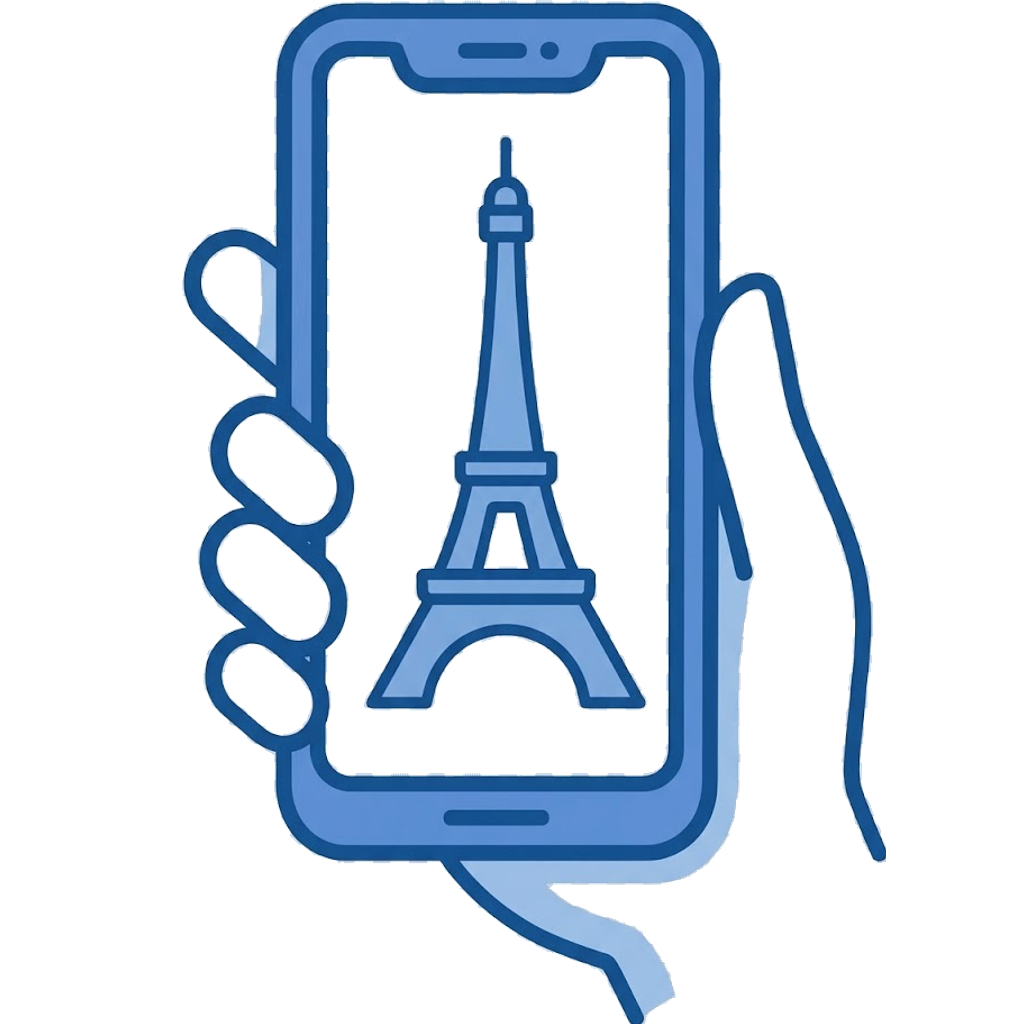
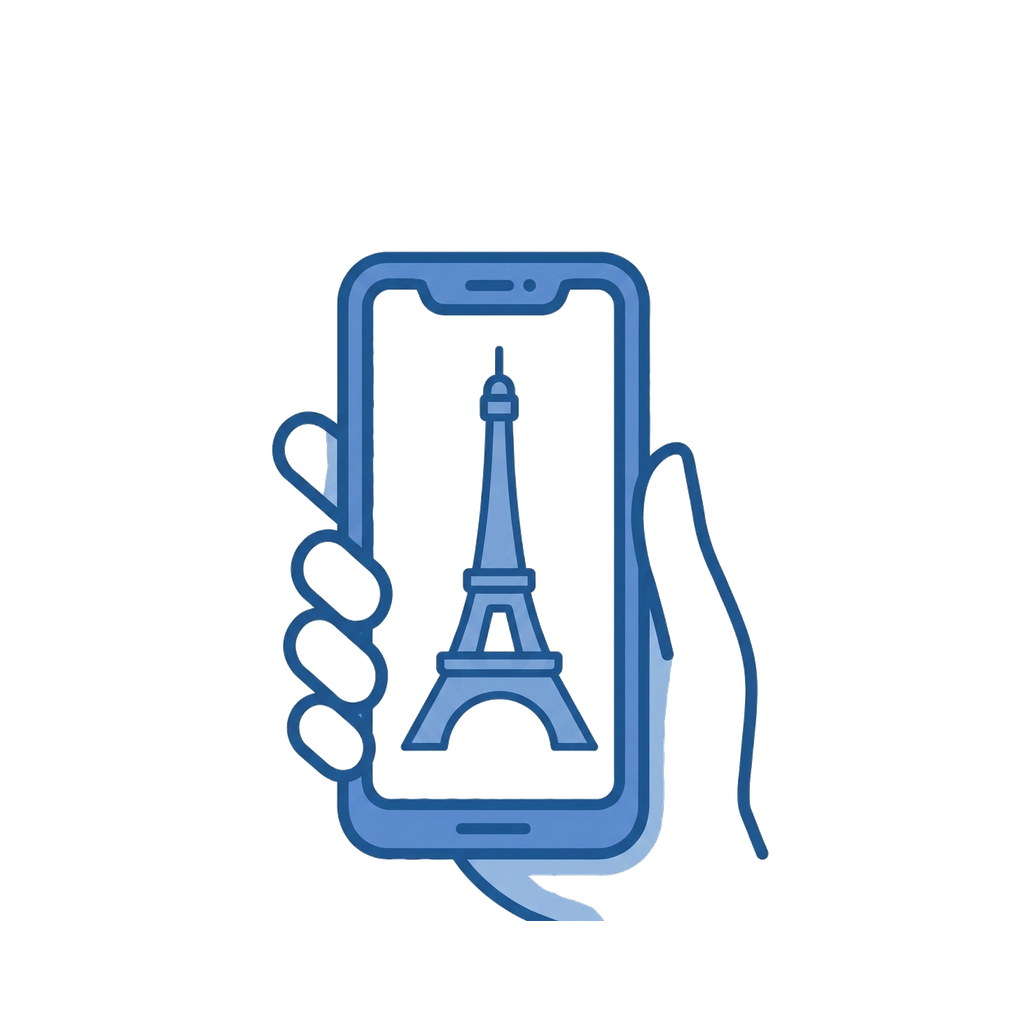
fix(release): 앱아이콘 재설계 = 안드로이드 마스크 대응(iOS 112%/AOS 70%, 아래로50px 여백) + 빌드번호 iOS 9 / Android 25
- 스티치 제작 신규 원본(정사각형에 가까운 구도)으로 교체 = 손가락만 쥔 손 + 화면 흰색 고대비
- 안드로이드 adaptive icon 마스크(72dp/66dp 안전영역) 실측 시뮬레이션으로 iOS/AOS 채움률 분리 확정
- 안드로이드 스플래시는 변경 없음

Changed region(s): [[0.1562, 0.0, 0.875, 1.0]]

diff --git a/docs/2026-08-14 실사용자 관점 AAB·IPA 앱버전 최적화.md b/docs/2026-08-14 실사용자 관점 AAB·IPA 앱버전 최적화.md
@@ -40,6 +40,23 @@
   - 검증: 픽셀 직접 샘플링(모서리 6곳 `(255,255,255)` 확인)으로 흰배경 정확성 실증. 미리보기 파일을 사장님 바탕화면에 직접 저장해 육안 확인 거쳐 최종 승인받음(제 설명만으로 판단 안 함).
   - §22 기계검증 통과(지문 `6c9205f3`).
 
+- [ ] **앱아이콘 2차 개선 — 안드로이드 마스크 대응 + 손목/소매 제거 + 위여백 — 확정(적용 대기, 다음 빌드 때 반영)**
+  - 문제점: 위 112% 아이콘을 실기기에 실제로 넣어보니(스샷 2장 비교) iOS는 최적인데 AOS는 여백이 없어 원형/스퀴클 마스크에 손가락·폰 모서리가 심하게 잘림("많이 넘침"). 원인 = 안드로이드 adaptive icon 공식규격(108dp 캔버스 안에서 런처가 지름 72dp 원/스퀴클/둥근사각형 마스크로 자름, 안전영역 권장 66dp) — 기존 소스는 세로로 길고 여백 0이라 마스크에 그대로 잘려나감.
+  - 1차 시도(기각): 기존 소스(손+손목+소매, 665×1024 세로형)를 스케일만 줄여 안전영역에 맞추면 잘림은 없앨 수 있으나, 세로가 원래 길어서 축소하면 양옆 여백이 과하게 남아 로고가 작아 보임(사장님 지적) — 로컬에서 원형/스퀴클/둥근사각형 마스크 시뮬레이션(`scripts` 없이 sharp 임시스크립트로 108dp/72dp/66dp 수치 그대로 재현) 후 확인.
+  - 2차 시도(나노바나나2, 기각): 원본을 참고로 Higgsfield `nano_banana_pro`(=나노바나나2) 2회 재생성 — 가로폭 확보(정사각형 비율 0.995)는 성공했으나 사장님이 "손목·소매 빼고 손가락만" 요구 → 다시 만드니 정사각형 효과가 사라짐(비율 0.667, 원본과 비슷하게 회귀) + 1차 생성물에 워터마크 유령자국 발견(재생성으로 해결). 두 요구(손목 제거 vs 정사각형 비율)가 이 소스에서는 서로 상충함을 실측으로 확인.
+  - 3차 시도(스티치, 최종 채택): 사장님이 Google Stitch로 직접 제작한 새 원본(`mobile_phone_hero_icon.png`, 1024×1024, 흰배경, 폰이 주인공+손가락만+손목 자연스럽게 붙음, 화면 흰색 고대비) — 실측 비율 0.742, 로컬 마스크 시뮬레이션(원형·스퀴클·둥근사각형 × 60/65/75%)에서 전부 안 잘림 확인. 75~95% 추가 테스트로 실제 클립 시작점(85%부터 미세클립) 실측.
+  - **최종 확정표(다음 빌드 시 이 값 그대로 적용, 사장님 재확정 2026-08-20)**:
+
+    | 항목 | 값 |
+    |---|---|
+    | 원본 그림 | 스티치 제작본(`mobile_phone_hero_icon.png`) |
+    | iOS 아이콘 | 112% 채움 + 아래로50px 이동(=위여백, 확대율 유지한 채 크롭창만 이동) |
+    | AOS 아이콘(adaptive foreground) | 70% 채움(75~95% 테스트로 85%부터 미세클립 확인, 70%는 안전) + 아래로50px |
+    | 스플래시(`tripis-splash-android-icon.png`) | **미변경** — 기존 파일 그대로 유지(사장님 판단 = 지금 그대로가 최적) |
+
+  - 보관 위치(적용 전 원본·미리보기 전부): 바탕화면 `TRIPIS-아이콘-검토/` 폴더 — 원본 `원본-스티치제작본.png`, 최종본 `13-최종확정-iOS(112%,아래로50px).png` / `13-최종확정-AOS(70%,아래로50px).png`, 마스크 시뮬레이션·프롬프트·중간버전 전부 번호순 보관(1~13).
+  - **다음 구울 때(빌드) 할 일**: 위 표대로 `assets/images/tripis-app-icon.png`(iOS)·`tripis-adaptive-foreground.png`(Android)만 교체(스플래시 파일은 손대지 않음) → §22 기계검증 → dev 육안검증(사장님) → buildNumber/versionCode 증가 → 커밋 승인 후 빌드.
+
 ## 0-1. 다음 수정 묶음(2026-08-19 실기기 발견, 승인 대기 — 한 번에 모아 고치고 재빌드는 1회만)
 
 > 사장님 지시: 개별 수정마다 재빌드하지 말고 **모아서 한 번에 고친 뒤 1회만 재빌드**. 아래는 조사 완료 후 코드 미착수 상태.
